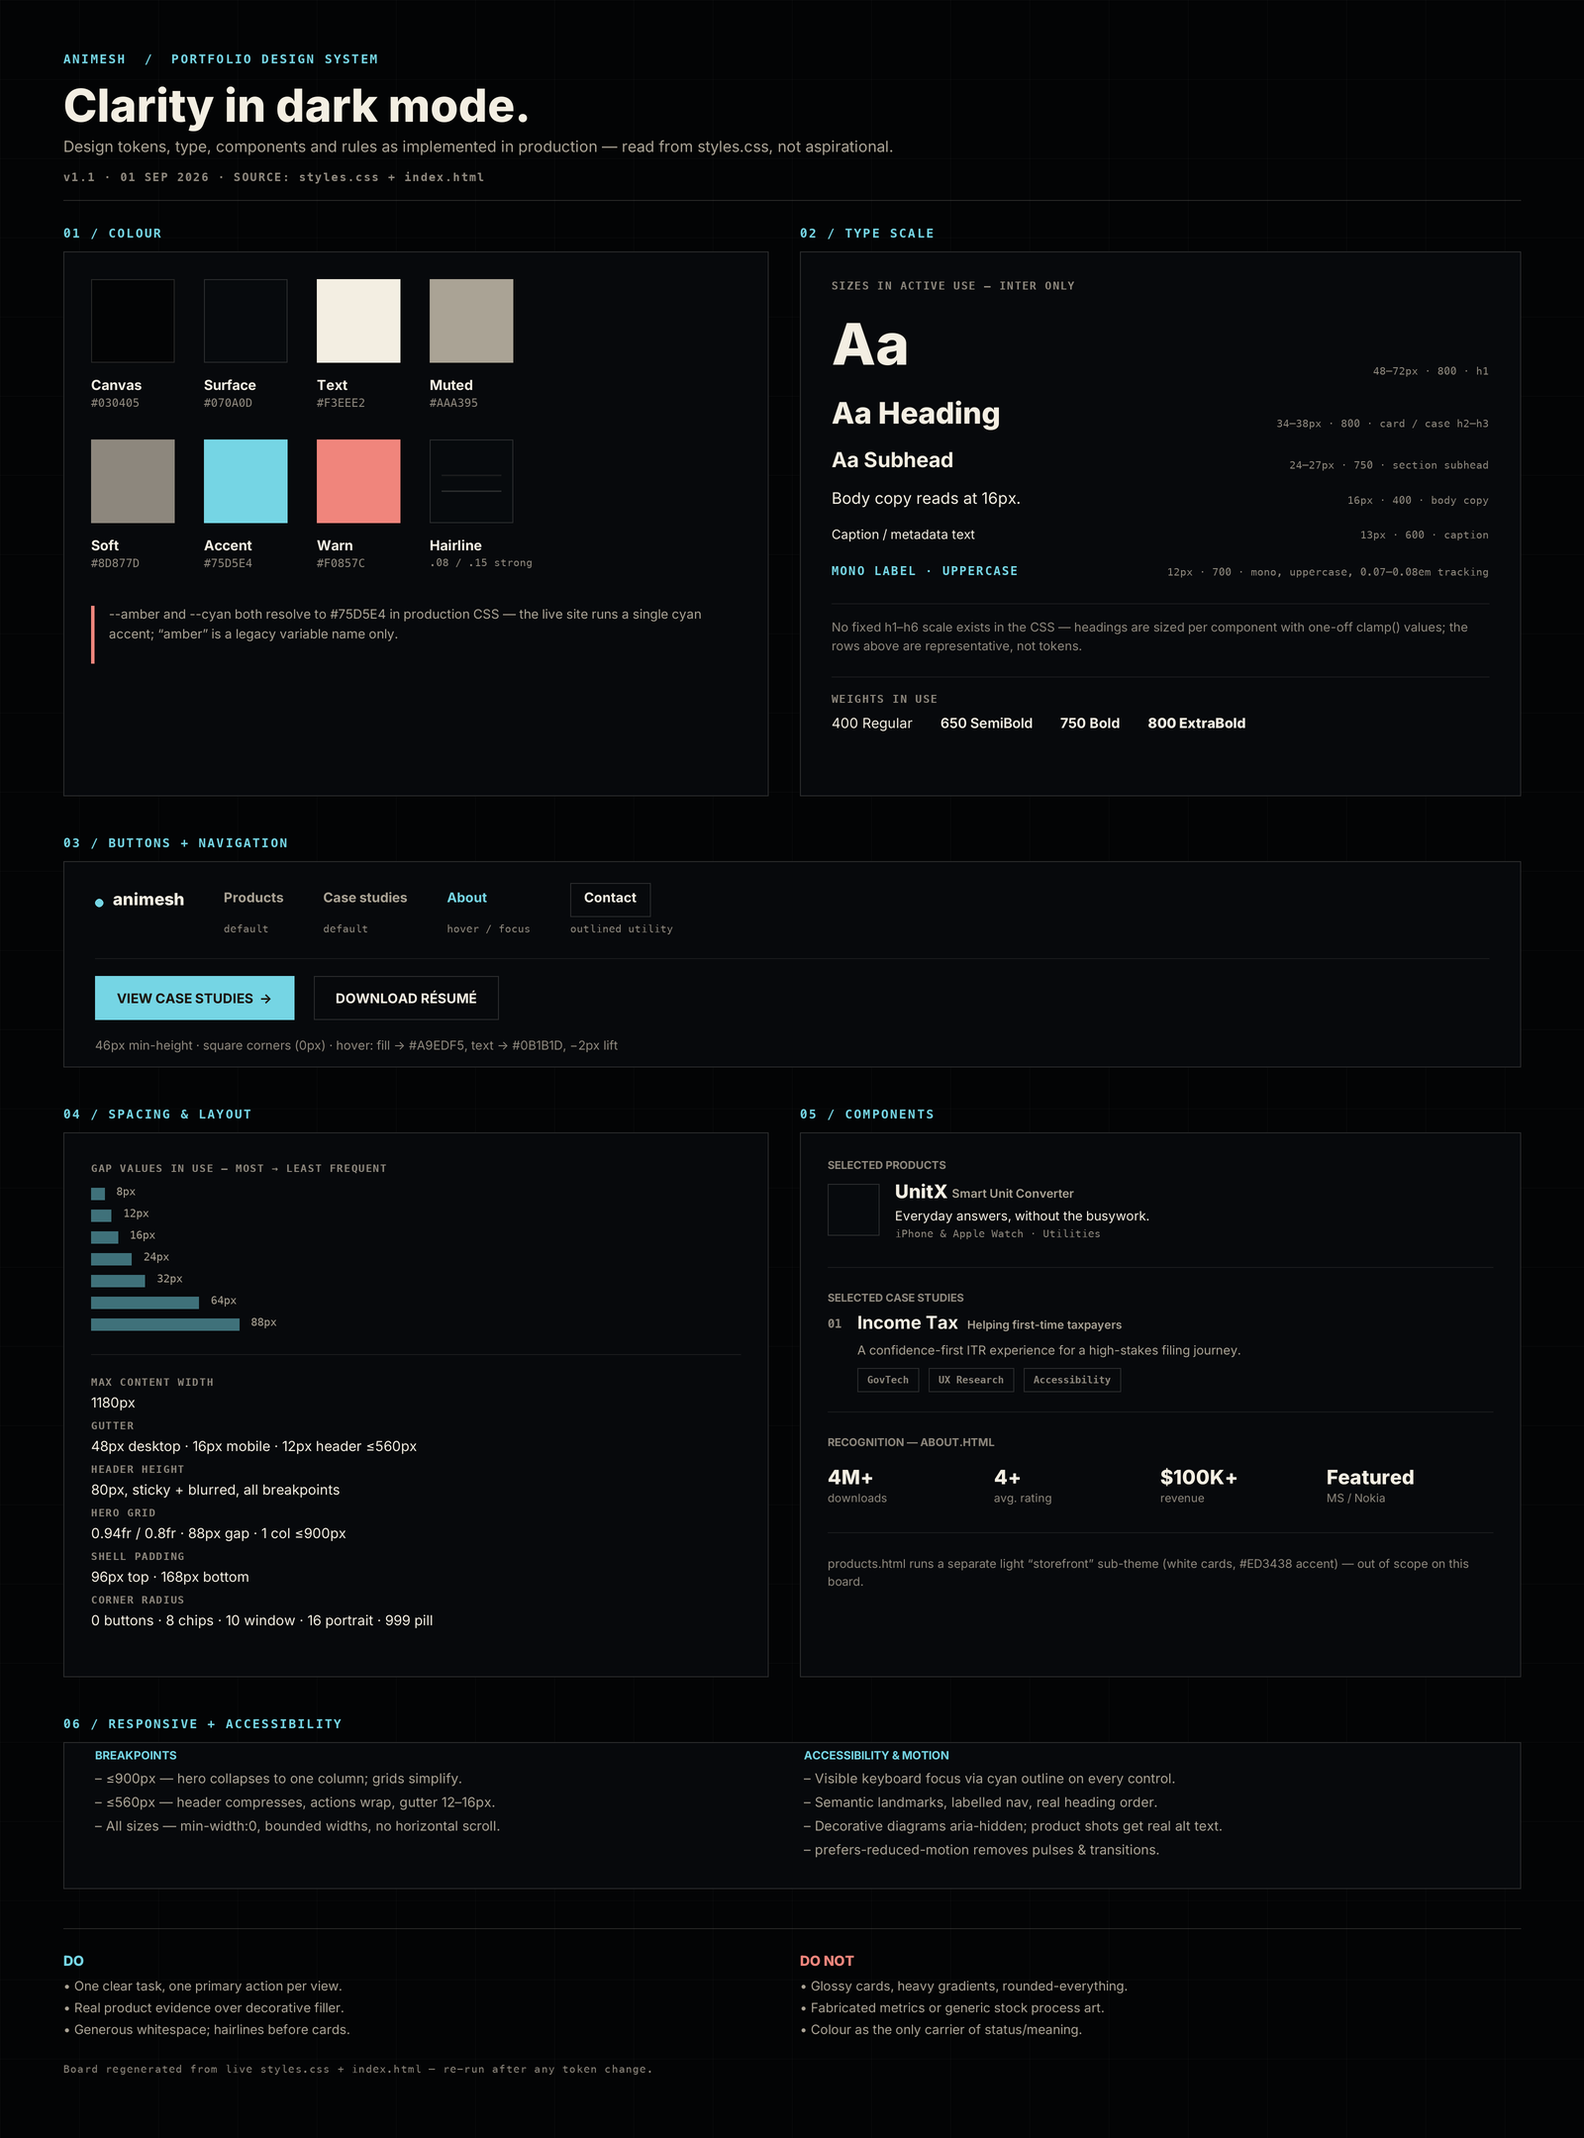
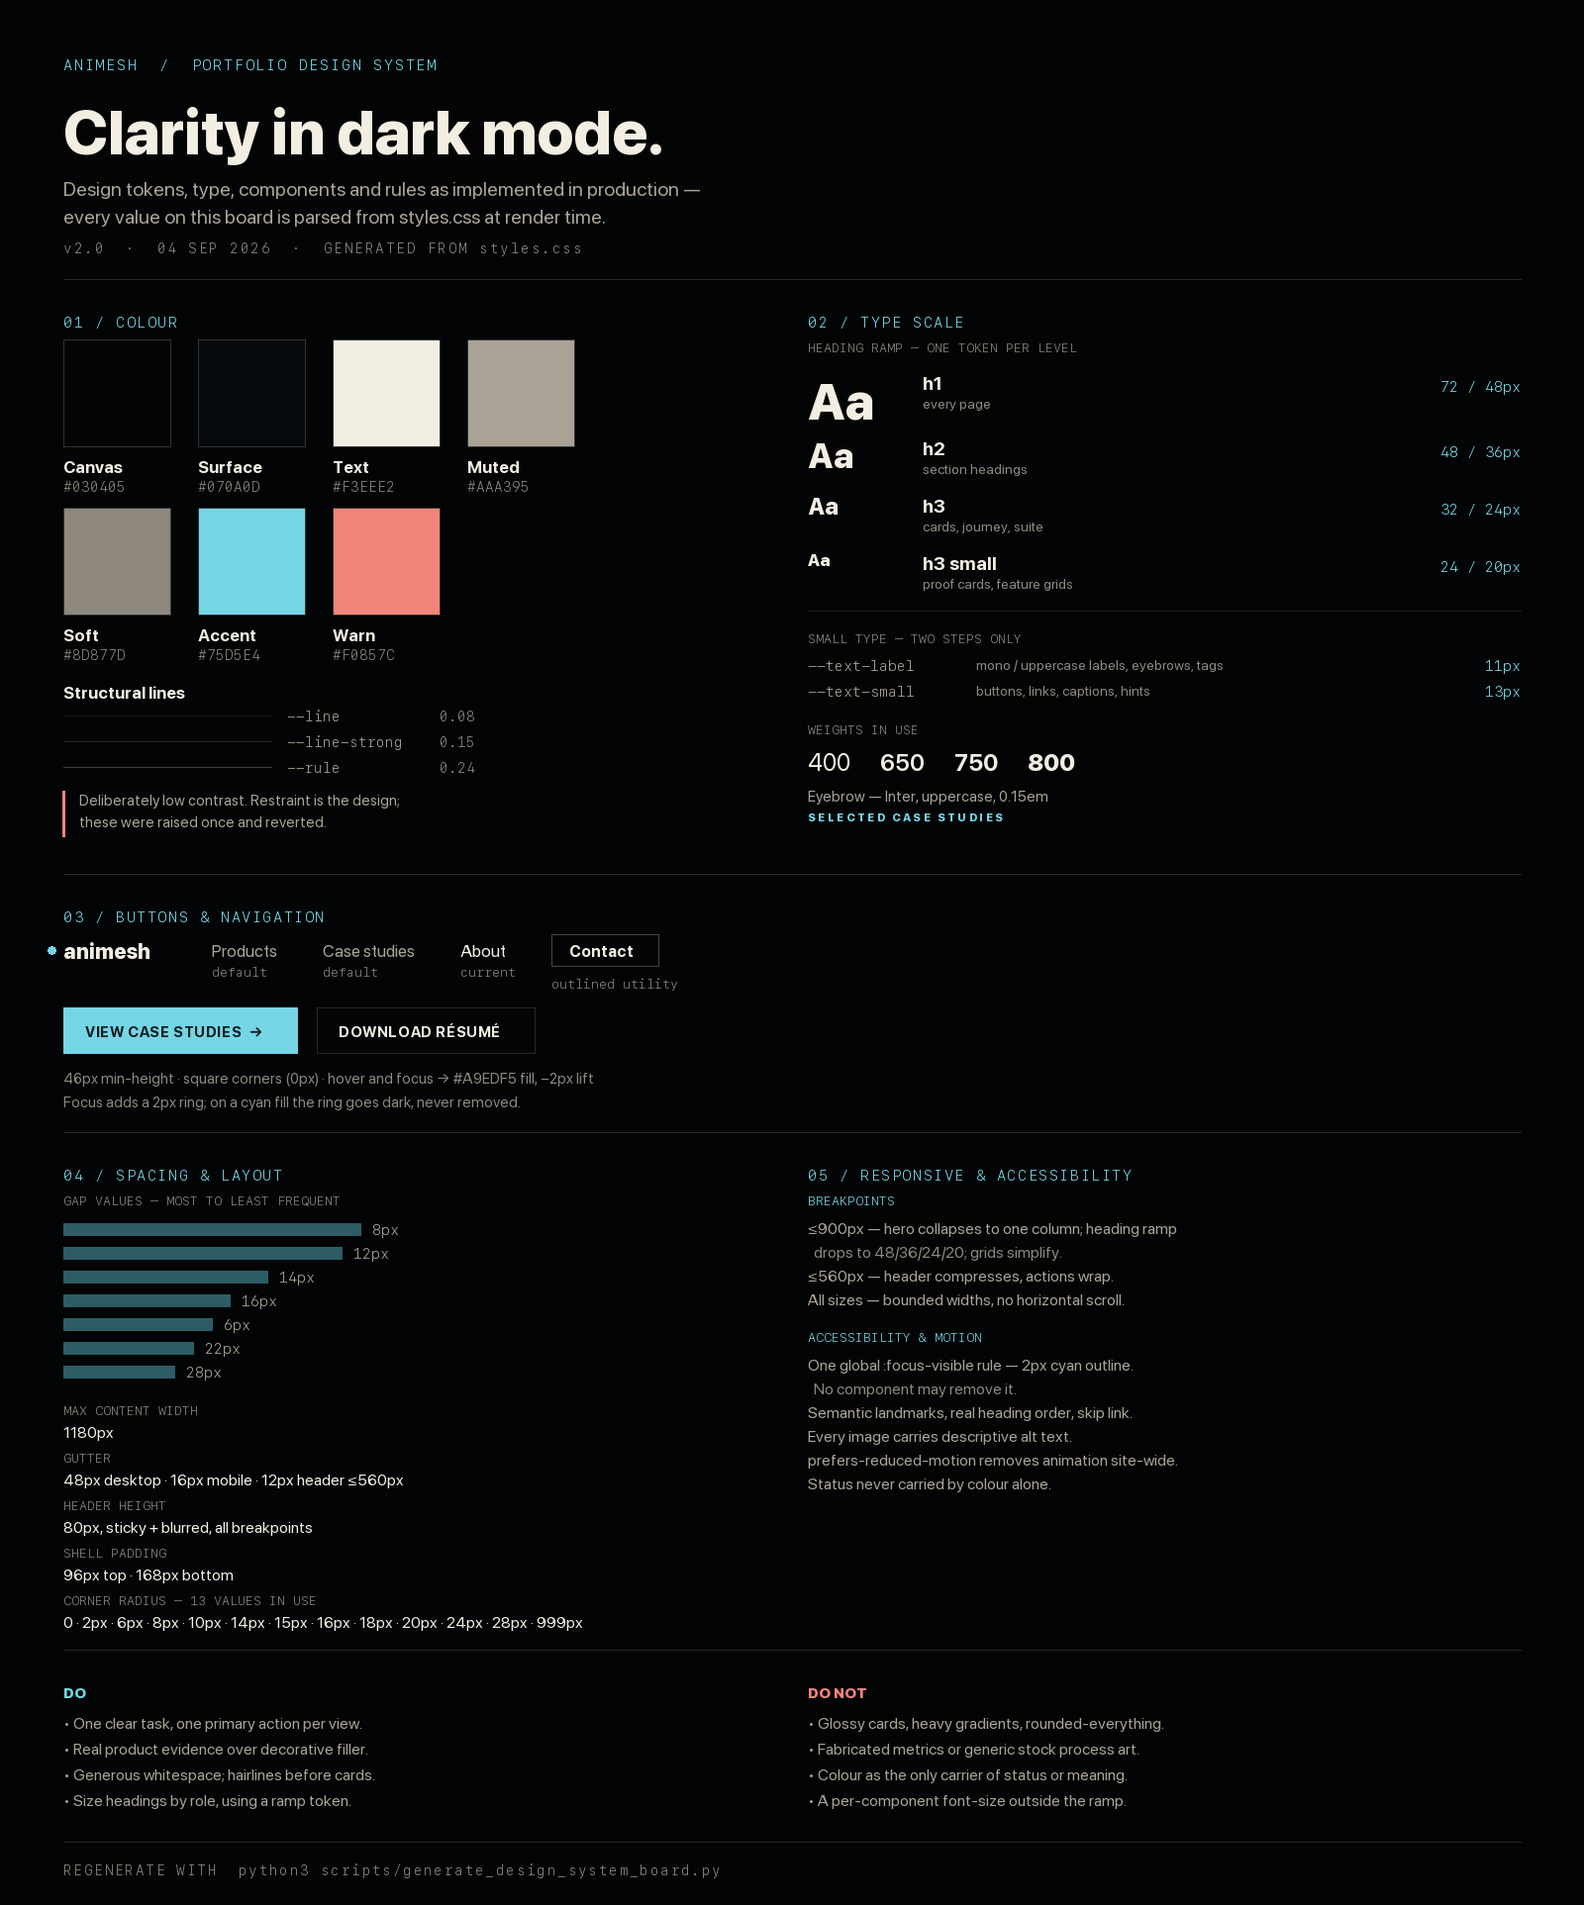
Generate the design-system board from styles.css instead of by hand
The board's claim is that it reports what the stylesheet actually does rather
than what the system aspires to, but it was maintained by hand, so it drifted
the moment anything changed — within a day of the last regeneration it was
asserting "no fixed h1-h6 scale exists in the CSS", which had stopped being
true, and describing the eyebrow as mono when it is Inter.

Adds scripts/generate_design_system_board.py, which parses every value it
prints: colour tokens, the heading ramp with its mobile values, the two
small-type tokens, the weights actually in use, the corner radii actually in
use, the most frequent gap values, and the line alphas. Nothing on the board is
typed by hand any more, so re-running it after a token change is enough.

Board now reports the current system: 72/48/32/24 heading ramp with its
36/24/20 mobile counterparts, --text-label and --text-small, four weights, the
Inter eyebrow at 0.15em, and the line values as a deliberate low-contrast
choice rather than as drift. Corner radii are printed in full with a count
rather than silently truncated.

Renders in SF via SFNS.ttf, which is exactly what --font-sans resolves to on
macOS when Inter is absent, and SFNSMono.ttf for the mono face.

Cross-checked every printed value against styles.css before committing.

diff --git a/scripts/generate_design_system_board.py b/scripts/generate_design_system_board.py
@@ -1,0 +1,354 @@
+#!/usr/bin/env python3
+"""Regenerate assets/animesh-design-system.png from the live stylesheet.
+
+The board's whole value is that it reports what styles.css actually does, not
+what the system aspires to. So every number on it is parsed from styles.css at
+render time — nothing here is typed by hand. Re-run after any token change:
+
+    python3 scripts/generate_design_system_board.py
+
+Inter is not installed locally, so the sans face falls back to SF (SFNS.ttf),
+which is exactly what --font-sans resolves to on macOS when Inter is absent.
+The mono face uses SFNSMono.ttf, which is what --font-mono resolves to.
+"""
+
+import re
+from pathlib import Path
+from PIL import Image, ImageDraw, ImageFont
+
+ROOT = Path(__file__).resolve().parent.parent
+CSS = ROOT / "styles.css"
+OUT = ROOT / "assets" / "animesh-design-system.png"
+
+W = 1600
+PAD = 64
+COL_GAP = 32
+COL_W = (W - PAD * 2 - COL_GAP) // 2
+
+SANS = "/System/Library/Fonts/SFNS.ttf"
+MONO = "/System/Library/Fonts/SFNSMono.ttf"
+WEIGHT_NAME = {400: "Regular", 650: "Semibold", 750: "Bold", 800: "Heavy"}
+
+_cache = {}
+
+
+def font(size, weight=400, mono=False):
+    key = (size, weight, mono)
+    if key in _cache:
+        return _cache[key]
+    f = ImageFont.truetype(MONO if mono else SANS, size)
+    if not mono:
+        try:
+            f.set_variation_by_name(WEIGHT_NAME.get(weight, "Regular"))
+        except Exception:
+            pass
+    _cache[key] = f
+    return f
+
+
+# ---------------------------------------------------------------- parse CSS
+
+css = CSS.read_text(encoding="utf-8")
+root_block = re.search(r":root\s*\{(.*?)\n\}", css, re.S).group(1)
+
+
+def token(name, block=root_block):
+    m = re.search(rf"--{re.escape(name)}:\s*([^;]+);", block)
+    return m.group(1).strip() if m else None
+
+
+def rem_px(v):
+    m = re.match(r"([\d.]+)rem", v or "")
+    return round(float(m.group(1)) * 16) if m else None
+
+
+mobile_block = re.search(
+    r"@media \(max-width: 900px\)\s*\{.*?:root\s*\{(.*?)\}", css, re.S
+).group(1)
+
+COLOURS = [
+    ("Canvas", token("bg")), ("Surface", token("bg-2")),
+    ("Text", token("text")), ("Muted", token("muted")),
+    ("Soft", token("soft")), ("Accent", token("cyan")),
+    ("Warn", token("warn")),
+]
+
+RAMP = [
+    ("h1", "headline-size", "every page"),
+    ("h2", "h2-size", "section headings"),
+    ("h3", "h3-size", "cards, journey, suite"),
+    ("h3 small", "h3-small", "proof cards, feature grids"),
+]
+
+SMALL = [
+    ("--text-label", token("text-label"), "mono / uppercase labels, eyebrows, tags"),
+    ("--text-small", token("text-small"), "buttons, links, captions, hints"),
+]
+
+weights = sorted({int(x) for x in re.findall(r"font-weight:\s*(\d+)", css)})
+_raw_radii = [r.strip() for r in re.findall(r"border-radius:\s*([^;]+);", css)]
+radii = sorted(
+    {r for r in _raw_radii if "%" not in r and " " not in r},
+    key=lambda v: float(re.match(r"([\d.]+)", v).group(1)),
+)
+gaps = {}
+for g in re.findall(r"\bgap:\s*([^;]+);", css):
+    for px in re.findall(r"(\d+)px", g):
+        gaps[int(px)] = gaps.get(int(px), 0) + 1
+top_gaps = sorted(gaps.items(), key=lambda kv: -kv[1])[:7]
+
+
+def line_alpha(name):
+    v = token(name) or ""
+    m = re.search(r"([\d.]+)\)", v)
+    return float(m.group(1)) if m else 0
+
+
+def blend(alpha, fg=(243, 238, 226), bg=(3, 4, 5)):
+    return tuple(round(bg[i] + alpha * (fg[i] - bg[i])) for i in range(3))
+
+
+# ---------------------------------------------------------------- draw
+
+BG = (3, 4, 5)
+SURF = (7, 10, 13)
+TEXT = (243, 238, 226)
+MUTED = (170, 163, 149)
+SOFT = (141, 135, 125)
+CYAN = (117, 213, 228)
+WARN = (240, 133, 124)
+
+img = Image.new("RGB", (W, 3000), BG)
+d = ImageDraw.Draw(img)
+
+
+def tracked(x, y, text, f, fill, track=0):
+    """Draw text with letter-spacing, return advance width."""
+    for ch in text:
+        d.text((x, y), ch, font=f, fill=fill)
+        x += d.textlength(ch, font=f) + track
+    return x
+
+
+def label(x, y, text, colour=CYAN, size=15, track=1.6):
+    tracked(x, y, text.upper(), font(size, mono=True), colour, track)
+    return y + size + 12
+
+
+def rule(y, x0=PAD, x1=W - PAD, alpha=0.15):
+    d.line([(x0, y), (x1, y)], fill=blend(alpha), width=1)
+
+
+def panel(x, y, w, h):
+    d.rectangle([x, y, x + w, y + h], outline=blend(0.15), width=1)
+
+
+y = 56
+tracked(PAD, y, "ANIMESH  /  PORTFOLIO DESIGN SYSTEM", font(15, mono=True), CYAN, 1.8)
+y += 40
+d.text((PAD, y), "Clarity in dark mode.", font=font(62, 800), fill=TEXT)
+y += 82
+d.text((PAD, y), "Design tokens, type, components and rules as implemented in production —",
+       font=font(20), fill=MUTED)
+y += 28
+d.text((PAD, y), "every value on this board is parsed from styles.css at render time.",
+       font=font(20), fill=MUTED)
+y += 36
+tracked(PAD, y, "v2.0  ·  04 SEP 2026  ·  GENERATED FROM styles.css",
+        font(14, mono=True), SOFT, 1.5)
+y += 40
+rule(y)
+y += 34
+
+# ---- 01 colour
+top = y
+y = label(PAD, y, "01 / Colour")
+sw = 108
+for i, (name, val) in enumerate(COLOURS):
+    cx = PAD + (i % 4) * (sw + 28)
+    cy = y + (i // 4) * (sw + 62)
+    hexv = (val or "#000").strip()
+    try:
+        rgb = tuple(int(hexv[j:j + 2], 16) for j in (1, 3, 5))
+    except Exception:
+        rgb = (0, 0, 0)
+    d.rectangle([cx, cy, cx + sw, cy + sw], fill=rgb, outline=blend(0.2))
+    d.text((cx, cy + sw + 10), name, font=font(17, 750), fill=TEXT)
+    d.text((cx, cy + sw + 32), hexv.upper(), font=font(14, mono=True), fill=SOFT)
+y += (sw + 62) * 2 + 6
+
+d.text((PAD, y), "Structural lines", font=font(17, 750), fill=TEXT)
+y += 26
+for nm in ("line", "line-strong", "rule"):
+    a = line_alpha(nm)
+    d.line([(PAD, y + 8), (PAD + 210, y + 8)], fill=blend(a), width=1)
+    d.text((PAD + 226, y), f"--{nm}", font=font(14, mono=True), fill=MUTED)
+    d.text((PAD + 380, y), f"{a}", font=font(14, mono=True), fill=SOFT)
+    y += 26
+y += 6
+d.line([(PAD, y), (PAD, y + 46)], fill=WARN, width=3)
+d.text((PAD + 16, y), "Deliberately low contrast. Restraint is the design;", font=font(15), fill=MUTED)
+d.text((PAD + 16, y + 22), "these were raised once and reverted.", font=font(15), fill=MUTED)
+left_end = y + 58
+
+# ---- 02 type scale (right column)
+x2 = PAD + COL_W + COL_GAP
+y = label(x2, top, "02 / Type scale")
+d.text((x2, y), "HEADING RAMP — ONE TOKEN PER LEVEL", font=font(13, mono=True), fill=SOFT)
+y += 30
+for tag, tok, role in RAMP:
+    dv = rem_px(token(tok))
+    mv = rem_px(token(tok, mobile_block))
+    size = round(dv * 0.72)
+    d.text((x2, y), "Aa", font=font(size, 800), fill=TEXT)
+    d.text((x2 + 116, y + 2), tag, font=font(19, 750), fill=TEXT)
+    d.text((x2 + 116, y + 26), role, font=font(14), fill=SOFT)
+    rt = f"{dv} / {mv}px"
+    d.text((x2 + COL_W - d.textlength(rt, font=font(15, mono=True)), y + 8),
+           rt, font=font(15, mono=True), fill=CYAN)
+    y += max(size, 44) + 14
+y += 4
+rule(y, x2, x2 + COL_W, 0.12)
+y += 20
+d.text((x2, y), "SMALL TYPE — TWO STEPS ONLY", font=font(13, mono=True), fill=SOFT)
+y += 26
+for nm, val, role in SMALL:
+    d.text((x2, y), nm, font=font(15, mono=True), fill=MUTED)
+    d.text((x2 + 170, y), role, font=font(14), fill=SOFT)
+    rt = f"{rem_px(val)}px"
+    d.text((x2 + COL_W - d.textlength(rt, font=font(15, mono=True)), y),
+           rt, font=font(15, mono=True), fill=CYAN)
+    y += 26
+y += 14
+d.text((x2, y), "WEIGHTS IN USE", font=font(13, mono=True), fill=SOFT)
+y += 26
+wx = x2
+for w in weights:
+    t = f"{w}"
+    d.text((wx, y), t, font=font(24, w), fill=TEXT)
+    wx += d.textlength(t, font=font(24, w)) + 30
+y += 40
+d.text((x2, y), "Eyebrow — Inter, uppercase, 0.15em", font=font(15), fill=MUTED)
+y += 24
+tracked(x2, y, "SELECTED CASE STUDIES", font(rem_px(token("text-label")), 800), CYAN, 2.4)
+right_end = y + 34
+
+y = max(left_end, right_end) + 26
+rule(y)
+y += 34
+
+# ---- buttons + navigation
+y = label(PAD, y, "03 / Buttons & navigation")
+bx = PAD
+d.text((bx, y + 4), "animesh", font=font(21, 800), fill=TEXT)
+d.ellipse([bx - 16, y + 12, bx - 8, y + 20], fill=CYAN)
+bx += 150
+for nm, state in (("Products", "default"), ("Case studies", "default"),
+                  ("About", "current"), ):
+    d.text((bx, y + 6), nm, font=font(17), fill=TEXT if state == "current" else MUTED)
+    d.text((bx, y + 30), state, font=font(13, mono=True), fill=SOFT)
+    bx += d.textlength(nm, font=font(17)) + 46
+d.rectangle([bx, y, bx + 108, y + 32], outline=blend(0.28))
+d.text((bx + 18, y + 7), "Contact", font=font(16, 750), fill=TEXT)
+d.text((bx, y + 42), "outlined utility", font=font(13, mono=True), fill=SOFT)
+y += 74
+
+btn_h = 46
+d.rectangle([PAD, y, PAD + 236, y + btn_h], fill=CYAN)
+tracked(PAD + 22, y + 15, "VIEW CASE STUDIES  →", font(15, 750), (11, 27, 29), 0.6)
+d.rectangle([PAD + 256, y, PAD + 256 + 220, y + btn_h], outline=blend(0.15))
+tracked(PAD + 278, y + 15, "DOWNLOAD RÉSUMÉ", font(15, 750), TEXT, 0.6)
+y += btn_h + 16
+d.text((PAD, y), "46px min-height · square corners (0px) · hover and focus → #A9EDF5 fill, −2px lift",
+       font=font(15), fill=SOFT)
+y += 24
+d.text((PAD, y), "Focus adds a 2px ring; on a cyan fill the ring goes dark, never removed.",
+       font=font(15), fill=SOFT)
+y += 40
+rule(y)
+y += 34
+
+# ---- 03 spacing + layout
+top = y
+y = label(PAD, y, "04 / Spacing & layout")
+d.text((PAD, y), "GAP VALUES — MOST TO LEAST FREQUENT", font=font(13, mono=True), fill=SOFT)
+y += 28
+mx = max(c for _, c in top_gaps)
+for px, c in top_gaps:
+    bw = int(300 * c / mx)
+    d.rectangle([PAD, y + 3, PAD + bw, y + 15], fill=(45, 92, 100))
+    d.text((PAD + bw + 12, y), f"{px}px", font=font(15, mono=True), fill=MUTED)
+    y += 24
+y += 16
+facts = [
+    ("MAX CONTENT WIDTH", token("max")),
+    ("GUTTER", "48px desktop · 16px mobile · 12px header ≤560px"),
+    ("HEADER HEIGHT", "80px, sticky + blurred, all breakpoints"),
+    ("SHELL PADDING", "96px top · 168px bottom"),
+    (f"CORNER RADIUS — {len(radii)} VALUES IN USE", " · ".join(radii)),
+]
+for k, v in facts:
+    d.text((PAD, y), k, font=font(13, mono=True), fill=SOFT)
+    y += 20
+    d.text((PAD, y), str(v), font=font(16), fill=TEXT)
+    y += 28
+left_end = y
+
+# ---- 04 responsive + a11y
+y = label(x2, top, "05 / Responsive & accessibility")
+blocks = [
+    ("BREAKPOINTS", [
+        "≤900px — hero collapses to one column; heading ramp",
+        "  drops to 48/36/24/20; grids simplify.",
+        "≤560px — header compresses, actions wrap.",
+        "All sizes — bounded widths, no horizontal scroll.",
+    ]),
+    ("ACCESSIBILITY & MOTION", [
+        "One global :focus-visible rule — 2px cyan outline.",
+        "  No component may remove it.",
+        "Semantic landmarks, real heading order, skip link.",
+        "Every image carries descriptive alt text.",
+        "prefers-reduced-motion removes animation site-wide.",
+        "Status never carried by colour alone.",
+    ]),
+]
+for head, rows in blocks:
+    d.text((x2, y), head, font=font(13, mono=True), fill=CYAN)
+    y += 26
+    for r in rows:
+        d.text((x2, y), r, font=font(16), fill=MUTED if not r.startswith("  ") else SOFT)
+        y += 24
+    y += 16
+right_end = y
+
+y = max(left_end, right_end) + 10
+rule(y)
+y += 34
+
+# ---- 05 do / do not
+d.text((PAD, y), "DO", font=font(15, 800), fill=CYAN)
+d.text((x2, y), "DO NOT", font=font(15, 800), fill=WARN)
+y += 30
+do = ["One clear task, one primary action per view.",
+      "Real product evidence over decorative filler.",
+      "Generous whitespace; hairlines before cards.",
+      "Size headings by role, using a ramp token."]
+dont = ["Glossy cards, heavy gradients, rounded-everything.",
+        "Fabricated metrics or generic stock process art.",
+        "Colour as the only carrier of status or meaning.",
+        "A per-component font-size outside the ramp."]
+for a, b in zip(do, dont):
+    d.text((PAD, y), "• " + a, font=font(16), fill=MUTED)
+    d.text((x2, y), "• " + b, font=font(16), fill=MUTED)
+    y += 26
+
+y += 26
+rule(y)
+y += 20
+tracked(PAD, y, "REGENERATE WITH  python3 scripts/generate_design_system_board.py",
+        font(14, mono=True), SOFT, 1.4)
+y += 44
+
+img = img.crop((0, 0, W, y))
+img.save(OUT)
+print(f"wrote {OUT.relative_to(ROOT)}  {W}x{y}")

diff --git a/DESIGN-SYSTEM.md b/DESIGN-SYSTEM.md
@@ -1,6 +1,6 @@
 # Animesh Portfolio Design System
 
-Version 1.7 · 4 September 2026 · audited against live `styles.css` + `index.html`
+Version 1.8 · 4 September 2026 · audited against live `styles.css` + `index.html`
 
 ## Product intent
 
@@ -209,7 +209,7 @@ Only `income-tax.html` uses `signal-tag` and `case-next`. `case-back` is styled 
 
 ## Assets
 
-- Exact technical board: `assets/animesh-design-system.png` — regenerated 1 September 2026 from live `styles.css` + `index.html` values (this document's source of truth).
+- Exact technical board: `assets/animesh-design-system.png`. **Regenerate it with `python3 scripts/generate_design_system_board.py`** after any token change — every value on the board is parsed from `styles.css` at render time, so it cannot drift from the code the way the hand-made version did. Inter is not installed locally, so the board renders in SF, which is what `--font-sans` falls back to on macOS anyway.
 - `assets/animesh-design-system.svg` still shows the old amber-primary palette and a text-overflow bug; treat it as superseded by the PNG above and do not hand-edit it further — regenerate it (or drop it) instead.
 - Concept-only visual mood board (not a typography source): `assets/animesh-design-system-moodboard.png`
 - Product evidence: `case-studies/assets/unitx/`
